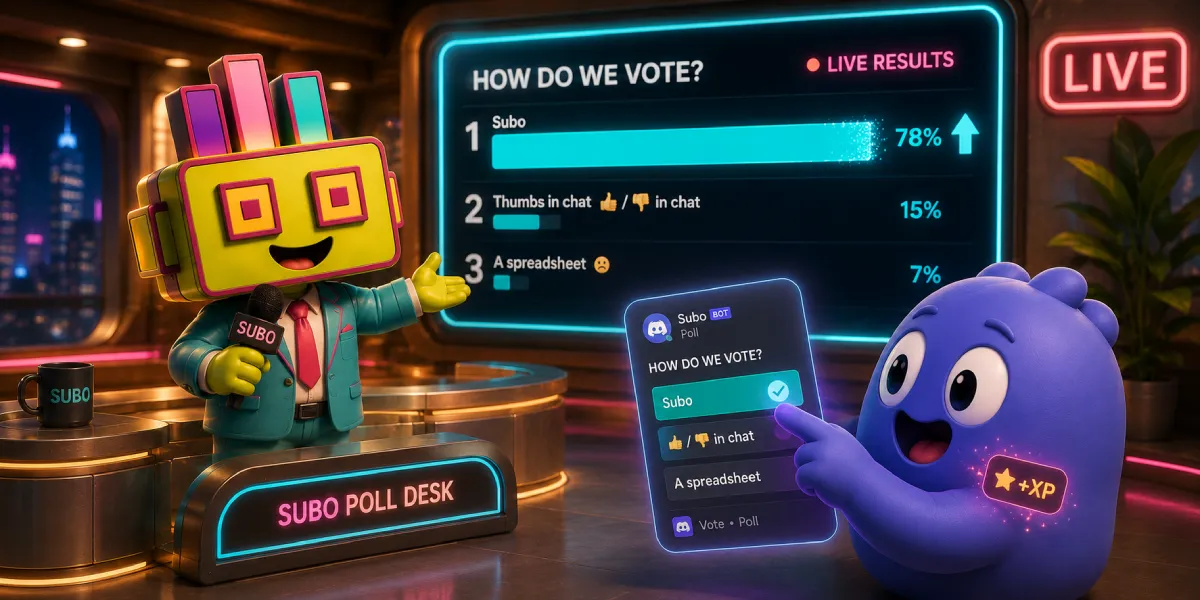
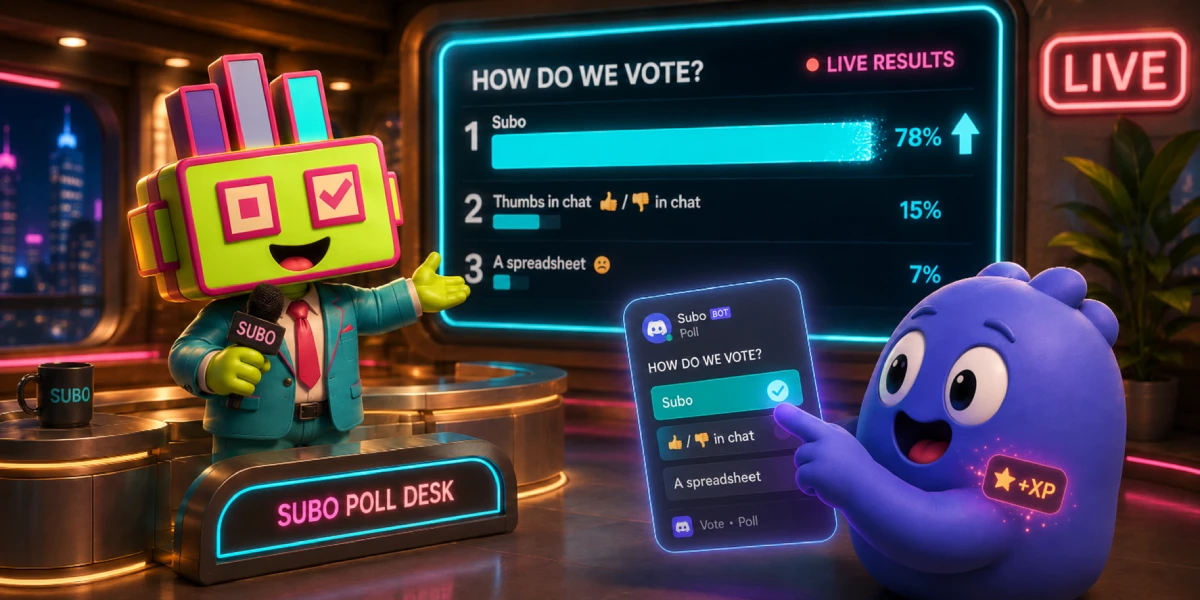
fix(blog): color-corrected versions of four more blog images
Replaces the cloning, best-poll-bots, invitation-design and template-library
illustrations. The last two move from .jpg to .webp, with their heroImage
paths and mascot-illustration example references updated to match.

diff --git a/src/content/blog/subo-template-library-launch.md b/src/content/blog/subo-template-library-launch.md
@@ -3,7 +3,7 @@ title: "The Subo Template Library Is Here: Ready-to-Run Surveys, Polls, and Quiz
 description: "You shouldn't need to be a professional researcher to build a great survey. Clone a proven poll, survey, or quiz in one click and make it yours. A growing library of free templates for Discord communities."
 pubDate: "Jul 5 2026"
 author: "Subo Team"
-heroImage: "/images/blog/template-library/subo-template-librarian.jpg"
+heroImage: "/images/blog/template-library/subo-template-librarian.webp"
 tags: ["announcement", "templates", "surveys", "polls", "product"]
 draft: false
 ---

diff --git a/src/content/blog/polls-grading-invite-customization.md b/src/content/blog/polls-grading-invite-customization.md
@@ -3,7 +3,7 @@ title: "Polls, upgraded: scoring, conditional rewards, and a custom invitation w
 description: "Polls now grade, score, and reward like full surveys, plus custom answer buttons, emoji, thumbnails, and open/closed border colors on every invitation embed."
 pubDate: "June 9 2026"
 author: "Subo Team"
-heroImage: "/images/blog/invitation-design/Invitation-design-workshop.jpg"
+heroImage: "/images/blog/invitation-design/Invitation-design-workshop.webp"
 tags: ["announcement", "features", "polls", "quiz", "scoring", "grading", "customization"]
 draft: false
 ---

diff --git a/.claude/skills/mascot-illustration/examples/invitation-designer.md b/.claude/skills/mascot-illustration/examples/invitation-designer.md
@@ -22,4 +22,4 @@ card that floats beside him, one edge actively being painted.
   room."
 
 ## Final asset
-`public/images/blog/invitation-design/Invitation-design-workshop.jpg`
+`public/images/blog/invitation-design/Invitation-design-workshop.webp`

diff --git a/.claude/skills/mascot-illustration/examples/template-library.md b/.claude/skills/mascot-illustration/examples/template-library.md
@@ -41,4 +41,4 @@ member blob.
   [../recurring-metaphors.md](../recurring-metaphors.md).
 
 ## Final asset
-`public/images/blog/template-library/subo-template-librarian.jpg` 
+`public/images/blog/template-library/subo-template-librarian.webp` 
